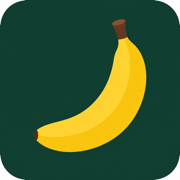
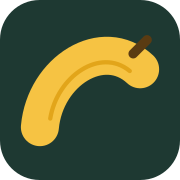
fix(ui): redraw the banana so it no longer looks horned
The old filled blob put the stem and tip outside the fruit as sharp triangles. Use a curved stroke with a rounded stem instead.

diff --git a/public/index.html b/public/index.html
@@ -73,19 +73,29 @@
           <span class="ping"></span>
           <span class="ping delay"></span>
           <svg class="banana" viewBox="0 0 200 200" role="img" aria-label="Banana">
-            <path
-              d="M42 78c8-32 38-58 78-52 28 4 52 28 58 56 4 18-6 28-22 22-18-8-28-6-40 4-18 16-38 28-62 22-22-6-22-28-12-52z"
-              fill="#f6c343"
-            />
-            <path
-              d="M48 84c8-26 34-48 70-44 22 4 42 22 48 46"
-              fill="none"
-              stroke="#e2a51a"
-              stroke-width="6"
-              stroke-linecap="round"
-            />
-            <path d="M118 28c8-10 22-14 34-8-12 2-22 10-28 20-4-6-6-10-6-12z" fill="#3d2a14" />
-            <path d="M40 118c-8 10-8 22 0 28 6-8 14-16 18-20-8-4-14-6-18-8z" fill="#5a3b12" />
+            <g transform="translate(-10 -2)">
+              <path
+                d="M52 145C58 80 125 38 168 78"
+                fill="none"
+                stroke="#f6c343"
+                stroke-width="44"
+                stroke-linecap="round"
+              />
+              <path
+                d="M64 135C72 86 122 52 156 80"
+                fill="none"
+                stroke="#e2a51a"
+                stroke-width="5"
+                stroke-linecap="round"
+              />
+              <path
+                d="M160 60 176 44"
+                fill="none"
+                stroke="#5a3b12"
+                stroke-width="11"
+                stroke-linecap="round"
+              />
+            </g>
           </svg>
         </div>
         <h1>Has your local gone <em>bananas</em>?</h1>
